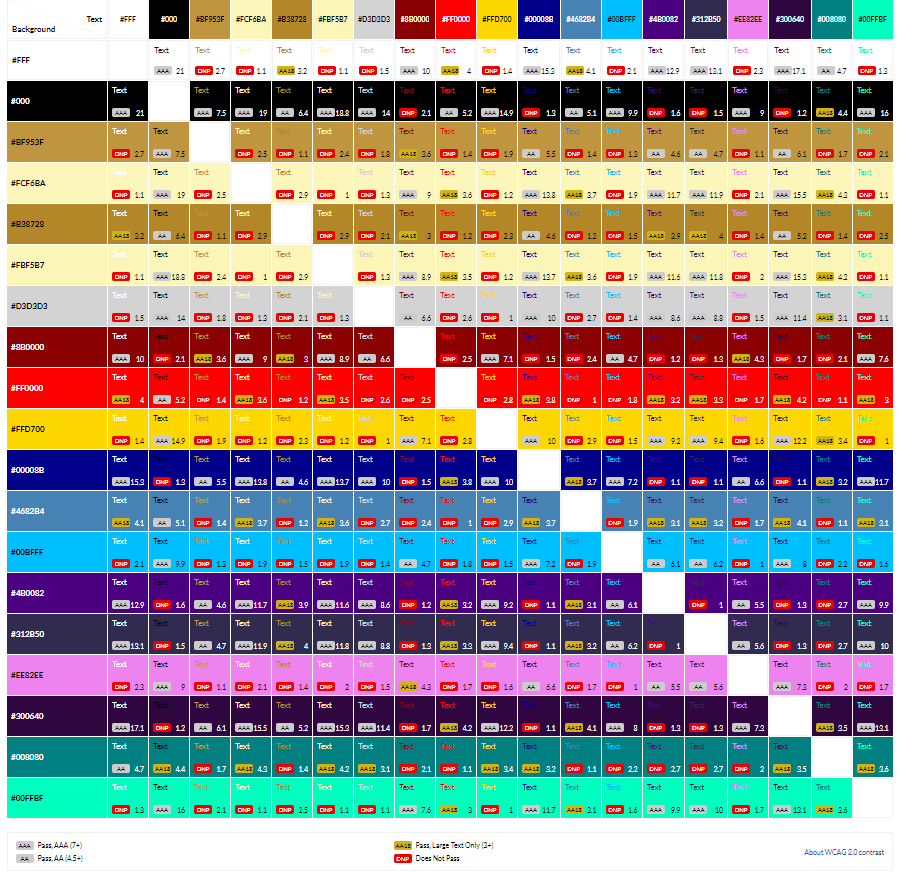
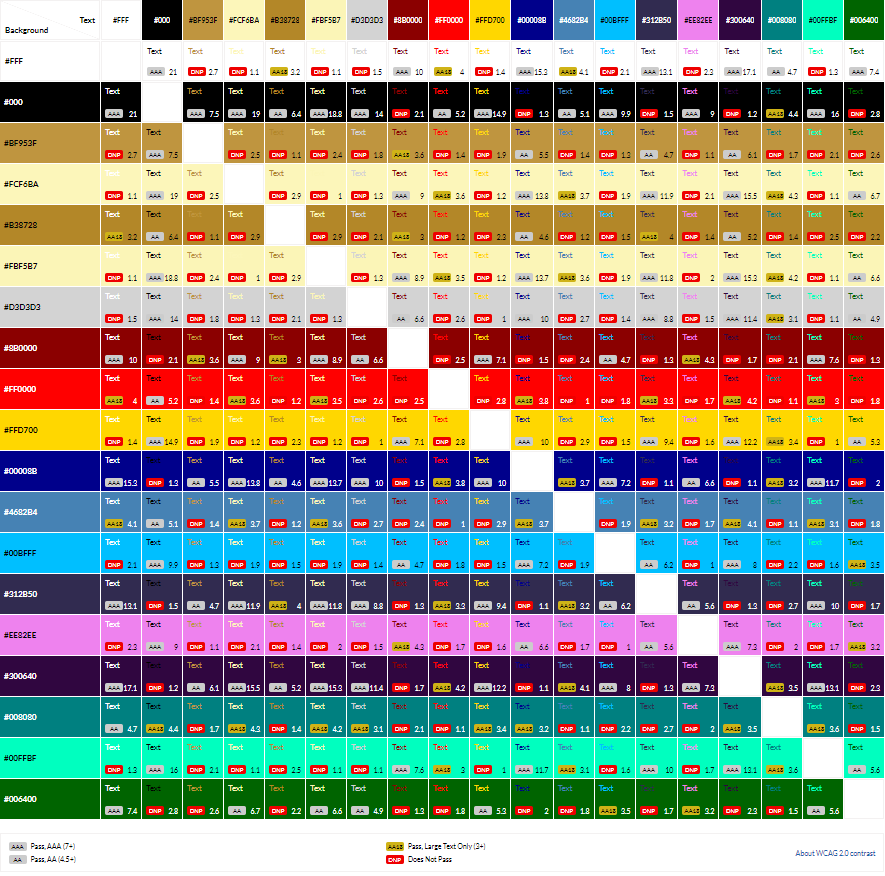
Add options details in readme with screenshots and update colors on CSS and JS file for the game themes

diff --git a/assets/js/script.js b/assets/js/script.js
@@ -631,7 +631,7 @@ document.addEventListener("DOMContentLoaded", function () {
         document.body.style.backgroundColor = "#EE82EE";
         resultSurroundRef.style.backgroundColor = "#312b50";
         for (let i = 0; i < mainWindowRef.length; i++) {
-            mainWindowRef[i].style.backgroundColor = "#4B0082";
+            mainWindowRef[i].style.backgroundColor = "#300640";
         }
     }
 });

diff --git a/assets/css/style.css b/assets/css/style.css
@@ -173,7 +173,7 @@ text-shadow: 3px 2px 2px #fbf5b7;
     border: 4px solid;
 }
 
-.active-theme {
+.active-theme, .alt-theme-border:hover {
     border: 4px dotted #FFD700;
 }
 
@@ -186,7 +186,7 @@ text-shadow: 3px 2px 2px #fbf5b7;
 }
 
 #purple {
-    background: #663399;
+    background: #300640;
 }
 
 /* Button styling */

diff --git a/README.md b/README.md
@@ -87,7 +87,7 @@ Since this for this project, wireframes are not required and were used only to s
 ### **Color Scheme:**
 When deciding the app's color scheme, I first began with the classic green table then worked outwards from there. I wanted the app to feel regal like a casino while keeping my contrast scores as high as possible for accessibility purposes.
  
-I have created the below color grid using [https://contrast-grid.eightshapes.com](https://contrast-grid.eightshapes.com/?version=1.1.0&background-colors=&foreground-colors=fff%2C%0D%0A000.%0D%0Abf953f%2C%20%0D%0Afcf6ba%2C%0D%0Ab38728%0D%0Ab38728%2C%0D%0Afbf5b7%2C%0D%0Ad3d3d3%0D%0A8B0000%2C%0D%0Aff0000%2C%0D%0AFFD700%2C%0D%0A00008B%2C%0D%0A4682b4%2C%0D%0A00bfff%2C%0D%0A4b0082%2C%0D%0A312b50%2C%0D%0A312b50%2C%0D%0Aee82ee%2C%0D%0A3006400%2C%0D%0A008080%2C%0D%0A00FFBF%2C%20%20&es-color-form__tile-size=compact&es-color-form__show-contrast=aaa&es-color-form__show-contrast=aa&es-color-form__show-contrast=aa18&es-color-form__show-contrast=dnp)
+I have created the below color grid using [https://contrast-grid.eightshapes.com](https://contrast-grid.eightshapes.com/?version=1.1.0&background-colors=&foreground-colors=%23FFF%0D%0A%23000%0D%0A%23BF953F%0D%0A%23FCF6BA%0D%0A%23B38728%0D%0A%23FBF5B7%0D%0A%23D3D3D3%0D%0A%238B0000%0D%0A%23FF0000%0D%0A%23FFD700%0D%0A%2300008B%0D%0A%234682B4%0D%0A%2300BFFF%0D%0A%23312B50%0D%0A%23EE82EE%0D%0A%23300640%0D%0A%23008080%0D%0A%2300FFBF%0D%0A%23006400%0D%0A&es-color-form__tile-size=compact&es-color-form__show-contrast=aaa&es-color-form__show-contrast=aa&es-color-form__show-contrast=aa18&es-color-form__show-contrast=dnp)
 
 # **Retake screenshot and delete the heading**
 ![Color Contrast Grid](docs/screenshots/color-grid.png)
@@ -128,6 +128,18 @@ On this sub menu I decide to use an accordion menu to seperate and display the d
   * Fully accessible with the relevant Aria tags and role assigned and toggled as the user interacts with the relevant sections.
 
 ![Rules Sub-Menu](docs/screenshots/rules-sub-menu.jpg)
+
+#### ***Options***
+On this sub menu the player is able to change the color theme to one of three choices for: -
+    * Green (default)
+    ![Green Theme](docs/screenshots/green-theme.jpg)
+    * Blue
+    ![Blue Theme](docs/screenshots/blue-theme.jpg)
+    * Purple
+    ![Purple Theme](docs/screenshots/purple-theme.jpg)
+
+Each Theme has a complimentary surround color for the body and all three div's have Aria labels to make them accessible to the visually impaired.
+
    
 
 
